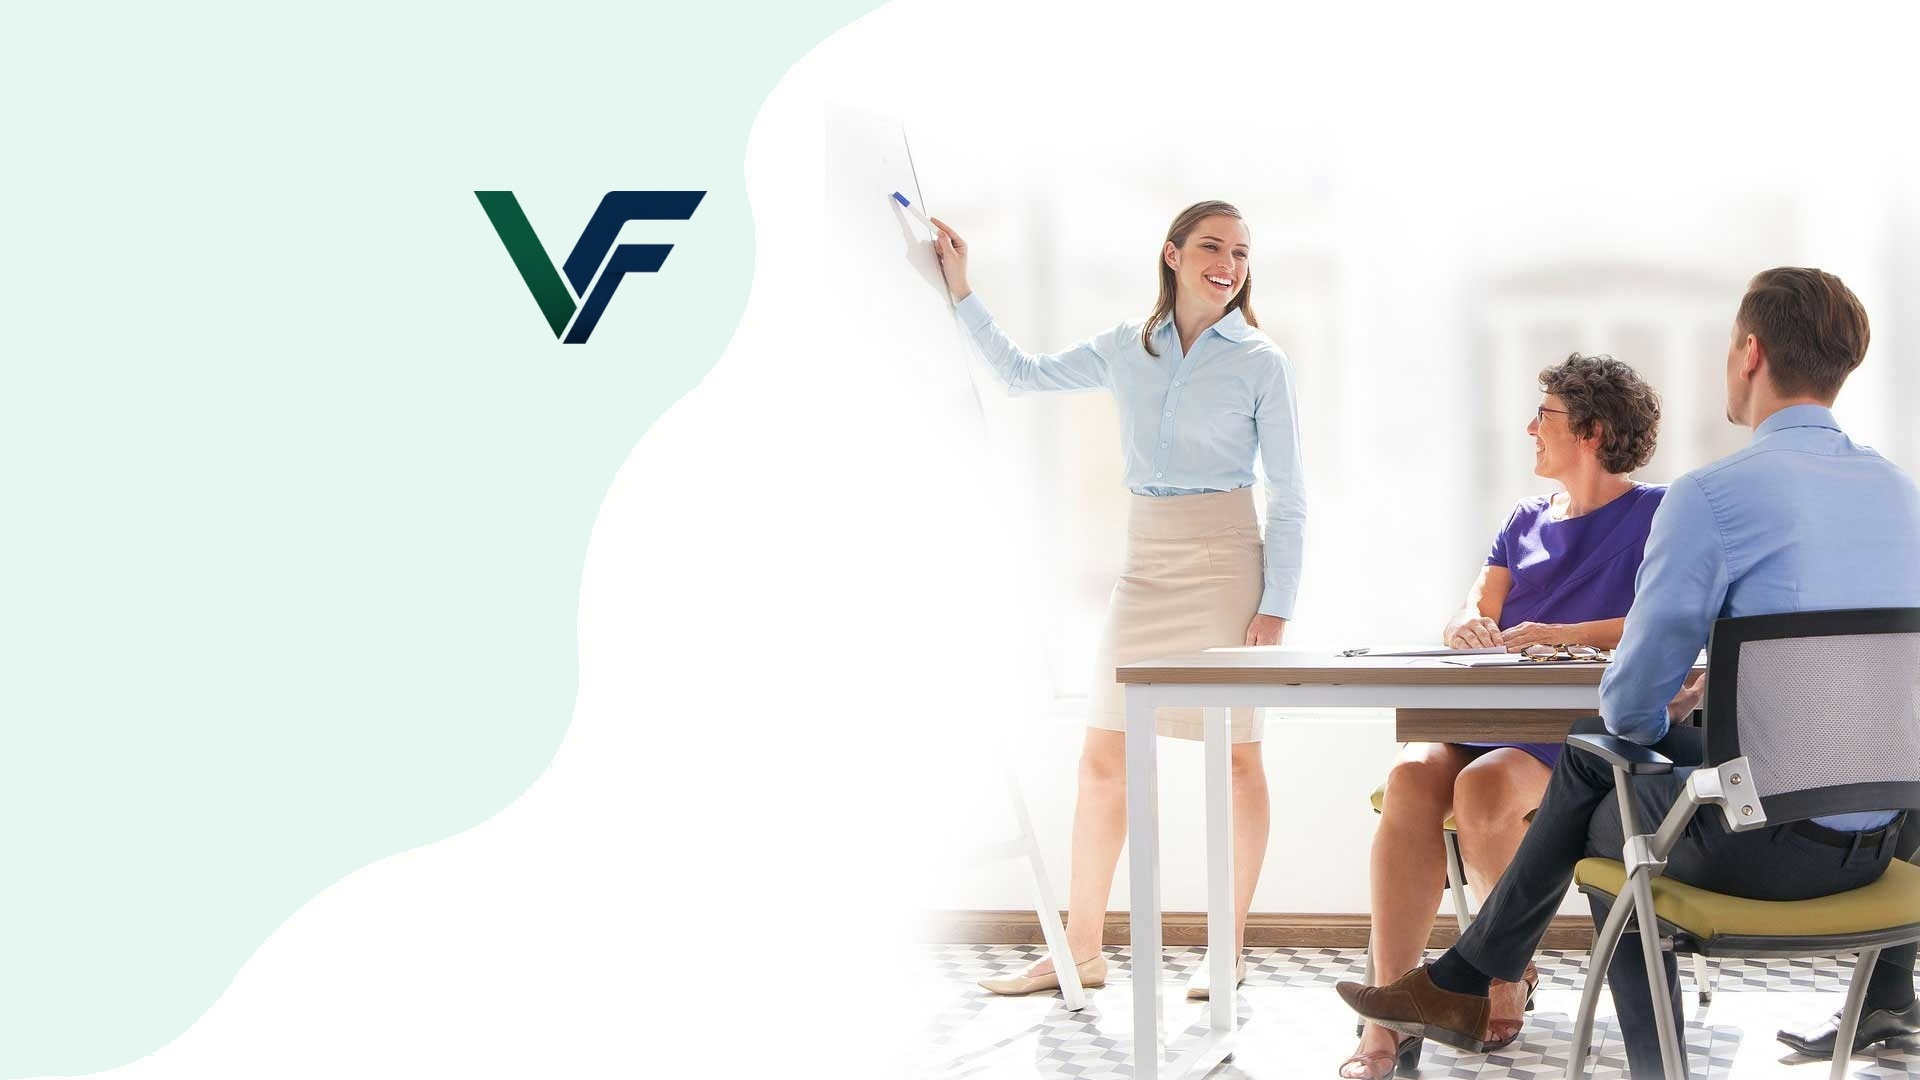
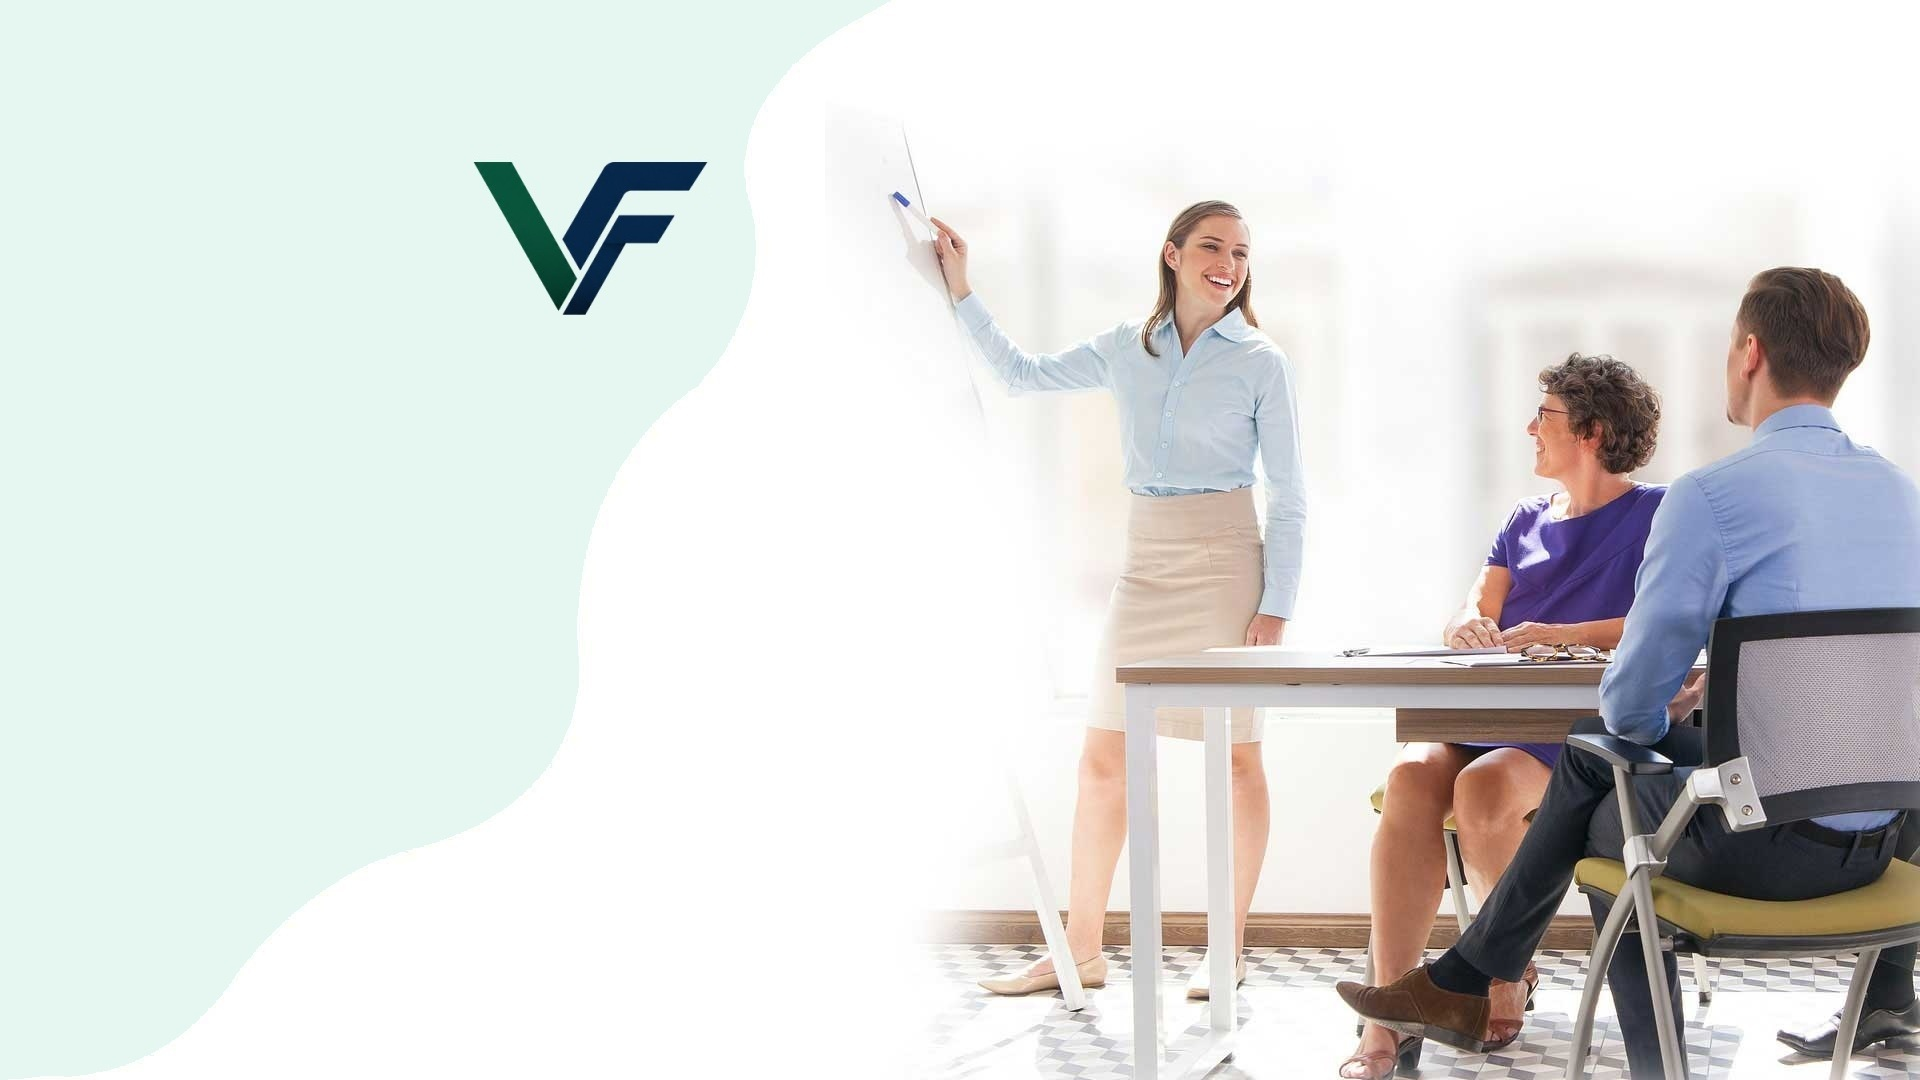
refactor

Changed region(s): [[0.25, 0.1528, 0.375, 0.3361]]

diff --git a/index.html b/index.html
@@ -111,7 +111,7 @@
                         <div class="container">
                             <div class="row justify-content-start">
                                 <div class="col-lg-8">
-                                    <h1 class="display-1 mb-4 animated slideInDown">Vaš finansijski smjer je naš pravac.
+                                    <h1 class="display-1 mb-4 animated slideInDown">Vaš smjer je naš pravac
                                     </h1>
                                     <a href="" class="btn btn-primary py-3 px-5 animated slideInDown">Više</a>
                                 </div>
@@ -230,7 +230,7 @@
                                     <i class="fa fa-phone text-white"></i>
                                 </div>
                                 <div class="ps-3">
-                                    <h4>Uvijek dostupni za unapređenje likvidnosti bez čekanja do dospijeća.</h4>
+                                    <h4>Uvijek dostupni za unapređenje likvidnosti</h4>
                                     <span>Kontaktirajte nas već danas da saznate kako faktoring može doprinijeti rastu i finansijskoj stabilnosti vaše kompanije.</span>
                                 </div>
                             </div>
@@ -286,7 +286,7 @@
                     <h1 class="display-5 mb-4">Razlozi zašto ljudi biraju nas!</h1>
                     <p class="mb-4">Saradnjom s našom faktoring agencijom ostvarujete brojne pogodnosti uključujući brži pristup obrtnim sredstvima. Postiže se razdvajanje kapitala od nenaplaćenih fakture.</br>
 					Redovna naplata potraživanja je veliki izazova u poslovanju, dok dug rok plaćanja može usporiti rast kompanije.
-					Faktoring omogućava da sredstva iz izdatih faktura budu dostupna odmah nakon njihovog ustupanja.
+					Faktoring omogućava da sredstva iz izdatih faktura budu dostupna odmah nakon njihovog ustupanja, bez čekanja do dospijeća.
                     </p>
                     <a class="btn btn-primary py-3 px-5" href="">Na početak</a>
                 </div>